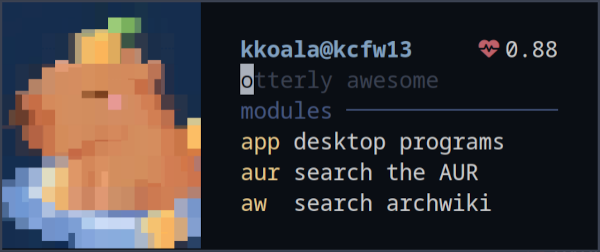
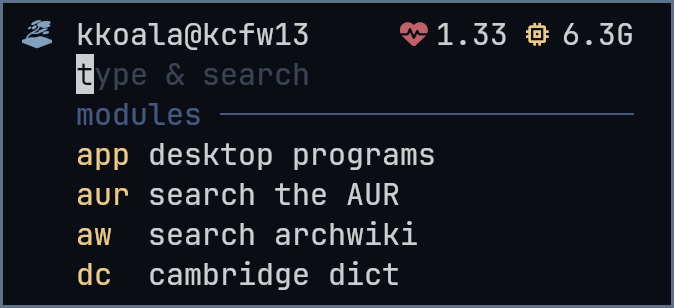
bump version & update readme

diff --git a/README.md b/README.md
@@ -105,13 +105,13 @@ sudo cp /tmp/otter-launcher/target/release/otter-launcher /usr/bin/
 
 2. Create a config file mannually
 
-Put a config at $HOME/.config/otter-launcher/config.toml. The [default config](https://github.com/kuokuo123/otter-launcher/tree/main/config_example/config.toml) looks for /etc/otter-launcher/[pikachu.example](https://github.com/kuokuo123/otter-launcher/tree/main/config_example/pikachu.example) to show a chafa image. You can modify the config file to remove this line from overlay_cmd.
+Put a config at $HOME/.config/otter-launcher/config.toml. The [default config](https://github.com/kuokuo123/otter-launcher/tree/main/config_example/config.toml) serves as an example.
 
 ## Configuration
 
 Otter reads from $HOME/.config/otter-launcher/config.toml. If missing, it looks into /etc/otter-launcher/config.toml, which is included in the AUR installation.
 
-The default config comes with a [capybara](https://github.com/kuokuo123/otter-launcher/tree/main/config_example/pikachu.example) to demonstrate how image integration works. Remove it by modifying overlay_cmd in the config file.
+The default config has a minimal setup. Check the [styling](#styling) section for image integration.
 
 <div align="center">
 
@@ -634,3 +634,5 @@ description_color = "\u001B[39m"
 place_holder_color = "\u001B[30m"
 hint_color = "\u001B[90m"
 ```
+
+[^1]: 
